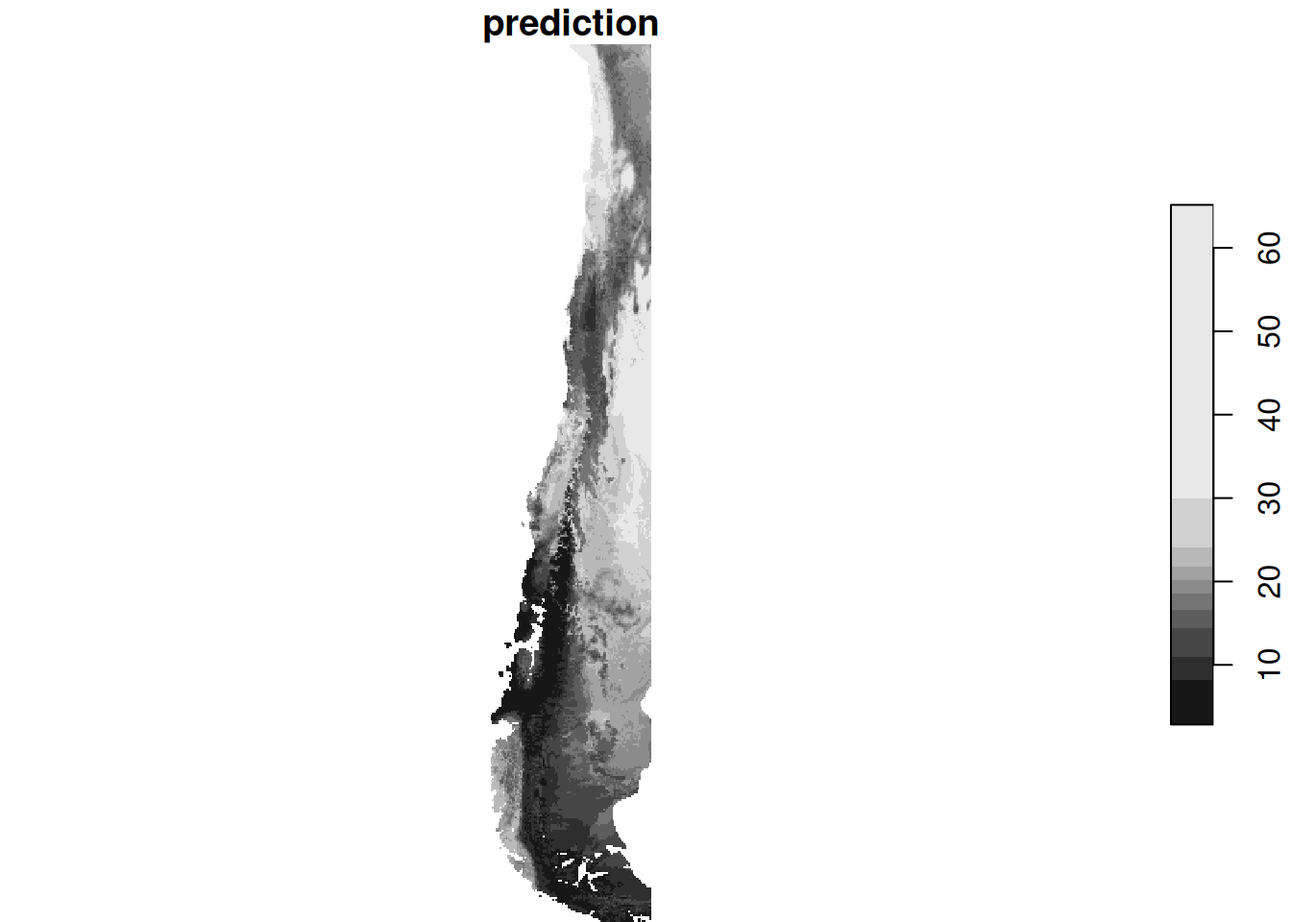
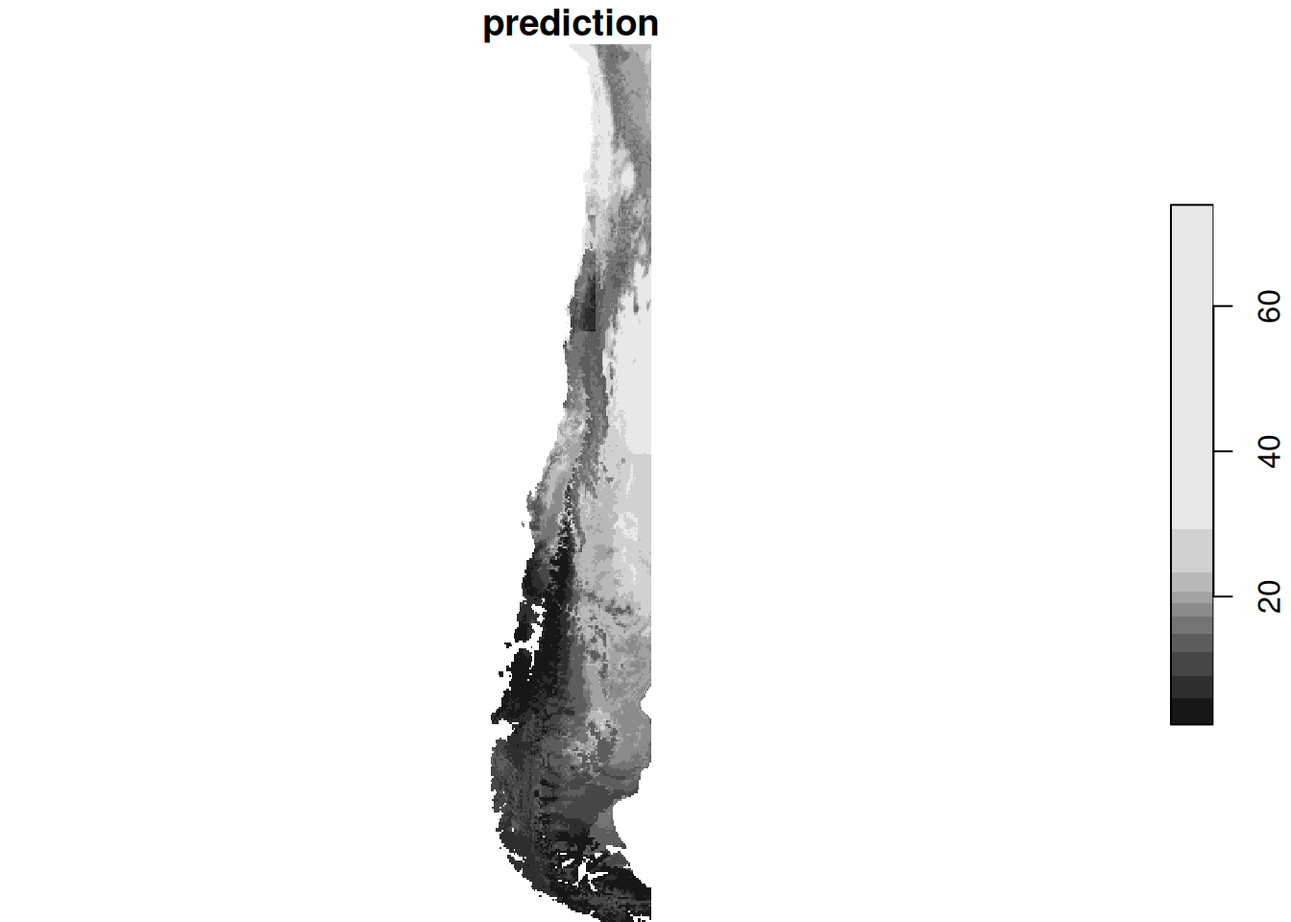
update

diff --git a/docs/day5.html b/docs/day5.html
@@ -1643,98 +1643,99 @@ I = \frac{n \sum_{(2)} w_{ij} z_i z_j}{S_0 \sum_{i=1}^{n} z_i^2}
 <span id="cb19-285"><a href="#cb19-285" aria-hidden="true" tabindex="-1"></a>download_items <span class="ot">&lt;-</span> it_obj <span class="sc">|&gt;</span></span>
 <span id="cb19-286"><a href="#cb19-286" aria-hidden="true" tabindex="-1"></a>  <span class="fu">assets_download</span>(<span class="at">assets_name =</span> <span class="st">"thumbnail"</span>, <span class="at">items_max =</span> <span class="dv">1</span>, <span class="at">overwrite =</span> <span class="cn">TRUE</span>)</span>
 <span id="cb19-287"><a href="#cb19-287" aria-hidden="true" tabindex="-1"></a><span class="in">```</span></span>
-<span id="cb19-288"><a href="#cb19-288" aria-hidden="true" tabindex="-1"></a></span>
-<span id="cb19-289"><a href="#cb19-289" aria-hidden="true" tabindex="-1"></a>and examine</span>
-<span id="cb19-290"><a href="#cb19-290" aria-hidden="true" tabindex="-1"></a></span>
-<span id="cb19-291"><a href="#cb19-291" aria-hidden="true" tabindex="-1"></a><span class="in">```{r eval=ev}</span></span>
-<span id="cb19-292"><a href="#cb19-292" aria-hidden="true" tabindex="-1"></a><span class="fu">library</span>(sf)</span>
-<span id="cb19-293"><a href="#cb19-293" aria-hidden="true" tabindex="-1"></a>tif <span class="ot">=</span> <span class="st">"sentinel-s2-l2a-cogs/23/K/MA/2022/3/S2A_23KMA_20220317_0_L2A/B04.tif"</span></span>
-<span id="cb19-294"><a href="#cb19-294" aria-hidden="true" tabindex="-1"></a><span class="fu">gdal_utils</span>(<span class="st">"info"</span>, tif)</span>
-<span id="cb19-295"><a href="#cb19-295" aria-hidden="true" tabindex="-1"></a><span class="fu">library</span>(stars)</span>
-<span id="cb19-296"><a href="#cb19-296" aria-hidden="true" tabindex="-1"></a><span class="fu">read_stars</span>(tif) <span class="sc">|&gt;</span> <span class="fu">plot</span>()</span>
-<span id="cb19-297"><a href="#cb19-297" aria-hidden="true" tabindex="-1"></a><span class="in">```</span></span>
-<span id="cb19-298"><a href="#cb19-298" aria-hidden="true" tabindex="-1"></a></span>
-<span id="cb19-299"><a href="#cb19-299" aria-hidden="true" tabindex="-1"></a>::: {.callout-note title="Breakout session 2"}</span>
-<span id="cb19-300"><a href="#cb19-300" aria-hidden="true" tabindex="-1"></a>Discuss:</span>
-<span id="cb19-301"><a href="#cb19-301" aria-hidden="true" tabindex="-1"></a></span>
-<span id="cb19-302"><a href="#cb19-302" aria-hidden="true" tabindex="-1"></a><span class="ss">-   </span>Have you used any cloud platforms for processing geospatial data?</span>
-<span id="cb19-303"><a href="#cb19-303" aria-hidden="true" tabindex="-1"></a><span class="ss">-   </span>What is your position with respect to platform lock-in?</span>
-<span id="cb19-304"><a href="#cb19-304" aria-hidden="true" tabindex="-1"></a>:::</span>
-<span id="cb19-305"><a href="#cb19-305" aria-hidden="true" tabindex="-1"></a></span>
-<span id="cb19-306"><a href="#cb19-306" aria-hidden="true" tabindex="-1"></a><span class="fu">## Further examples from r-spatial.org:</span></span>
-<span id="cb19-307"><a href="#cb19-307" aria-hidden="true" tabindex="-1"></a></span>
-<span id="cb19-308"><a href="#cb19-308" aria-hidden="true" tabindex="-1"></a><span class="ss">-   </span><span class="co">[</span><span class="ot">Cloud-based processing of satellite image collections in R using STAC, COGs, and on-demand data cubes</span><span class="co">](https://r-spatial.org/r/2021/04/23/cloud-based-cubes.html)</span></span>
-<span id="cb19-309"><a href="#cb19-309" aria-hidden="true" tabindex="-1"></a><span class="ss">-   </span><span class="co">[</span><span class="ot">Reading Zarr files with R package stars</span><span class="co">](https://r-spatial.org/r/2022/09/13/zarr.html)</span></span>
-<span id="cb19-310"><a href="#cb19-310" aria-hidden="true" tabindex="-1"></a><span class="ss">-   </span><span class="co">[</span><span class="ot">Processing large scale satellite imagery with openEO Platform and R</span><span class="co">](https://r-spatial.org/r/2022/11/24/openeo.html)</span></span>
-<span id="cb19-311"><a href="#cb19-311" aria-hidden="true" tabindex="-1"></a></span>
-<span id="cb19-312"><a href="#cb19-312" aria-hidden="true" tabindex="-1"></a><span class="fu">## Examples `/vsixxx`</span></span>
-<span id="cb19-313"><a href="#cb19-313" aria-hidden="true" tabindex="-1"></a></span>
-<span id="cb19-314"><a href="#cb19-314" aria-hidden="true" tabindex="-1"></a><span class="in">```{r eval=ev}</span></span>
-<span id="cb19-315"><a href="#cb19-315" aria-hidden="true" tabindex="-1"></a>curl<span class="sc">::</span><span class="fu">curl_download</span>(</span>
-<span id="cb19-316"><a href="#cb19-316" aria-hidden="true" tabindex="-1"></a>  <span class="st">"https://github.com/paleolimbot/geoarrow-data/releases/download/v0.0.1/nshn_water_line.gpkg"</span>,</span>
-<span id="cb19-317"><a href="#cb19-317" aria-hidden="true" tabindex="-1"></a>  <span class="st">"nshn_water_line.gpkg"</span></span>
-<span id="cb19-318"><a href="#cb19-318" aria-hidden="true" tabindex="-1"></a>)</span>
-<span id="cb19-319"><a href="#cb19-319" aria-hidden="true" tabindex="-1"></a><span class="in">```</span></span>
-<span id="cb19-320"><a href="#cb19-320" aria-hidden="true" tabindex="-1"></a></span>
-<span id="cb19-323"><a href="#cb19-323" aria-hidden="true" tabindex="-1"></a><span class="in">```{r}</span></span>
-<span id="cb19-324"><a href="#cb19-324" aria-hidden="true" tabindex="-1"></a><span class="fu">library</span>(sf)</span>
-<span id="cb19-325"><a href="#cb19-325" aria-hidden="true" tabindex="-1"></a><span class="in">```</span></span>
-<span id="cb19-326"><a href="#cb19-326" aria-hidden="true" tabindex="-1"></a></span>
-<span id="cb19-327"><a href="#cb19-327" aria-hidden="true" tabindex="-1"></a><span class="in">```{r eval=ev}</span></span>
-<span id="cb19-328"><a href="#cb19-328" aria-hidden="true" tabindex="-1"></a>(w <span class="ot">&lt;-</span> <span class="fu">read_sf</span>(<span class="st">"nshn_water_line.gpkg"</span>))</span>
-<span id="cb19-329"><a href="#cb19-329" aria-hidden="true" tabindex="-1"></a><span class="in">```</span></span>
-<span id="cb19-330"><a href="#cb19-330" aria-hidden="true" tabindex="-1"></a></span>
-<span id="cb19-331"><a href="#cb19-331" aria-hidden="true" tabindex="-1"></a>From https://github.com/microsoft/USBuildingFootprints downloaded <span class="co">[</span><span class="ot">Maine.geojson.zip</span><span class="co">](https://minedbuildings.z5.web.core.windows.net/legacy/usbuildings-v2/Maine.geojson.zip)</span>, and read with</span>
-<span id="cb19-332"><a href="#cb19-332" aria-hidden="true" tabindex="-1"></a></span>
-<span id="cb19-333"><a href="#cb19-333" aria-hidden="true" tabindex="-1"></a><span class="in">```{r eval=ev}</span></span>
-<span id="cb19-334"><a href="#cb19-334" aria-hidden="true" tabindex="-1"></a>(<span class="at">m =</span> <span class="fu">read_sf</span>(<span class="st">"/vsizip/Maine.geojson.zip"</span>)) <span class="co"># /vsizip: indicates data source is a zipped file</span></span>
-<span id="cb19-335"><a href="#cb19-335" aria-hidden="true" tabindex="-1"></a><span class="in">```</span></span>
-<span id="cb19-336"><a href="#cb19-336" aria-hidden="true" tabindex="-1"></a></span>
-<span id="cb19-337"><a href="#cb19-337" aria-hidden="true" tabindex="-1"></a>or read directly from github into R:</span>
-<span id="cb19-338"><a href="#cb19-338" aria-hidden="true" tabindex="-1"></a></span>
-<span id="cb19-339"><a href="#cb19-339" aria-hidden="true" tabindex="-1"></a><span class="in">```{r eval=FALSE}</span></span>
-<span id="cb19-340"><a href="#cb19-340" aria-hidden="true" tabindex="-1"></a>m <span class="ot">=</span> <span class="fu">st_read</span>(<span class="st">"/vsizip/vsicurl/https://minedbuildings.z5.web.core.windows.net/legacy/usbuildings-v2/Maine.geojson.zip"</span>)</span>
-<span id="cb19-341"><a href="#cb19-341" aria-hidden="true" tabindex="-1"></a><span class="co"># /vsicurl: indicates data source is a URL</span></span>
-<span id="cb19-342"><a href="#cb19-342" aria-hidden="true" tabindex="-1"></a><span class="in">```</span></span>
-<span id="cb19-343"><a href="#cb19-343" aria-hidden="true" tabindex="-1"></a></span>
-<span id="cb19-344"><a href="#cb19-344" aria-hidden="true" tabindex="-1"></a><span class="fu">## "Simple" analysis on large datasets</span></span>
-<span id="cb19-345"><a href="#cb19-345" aria-hidden="true" tabindex="-1"></a></span>
-<span id="cb19-346"><a href="#cb19-346" aria-hidden="true" tabindex="-1"></a><span class="ss">-   </span>process full archives, compute *in* the cloud</span>
-<span id="cb19-347"><a href="#cb19-347" aria-hidden="true" tabindex="-1"></a><span class="ss">-   </span>select subsets, download, process locally:</span>
-<span id="cb19-348"><a href="#cb19-348" aria-hidden="true" tabindex="-1"></a><span class="ss">    -   </span>spatial subset</span>
-<span id="cb19-349"><a href="#cb19-349" aria-hidden="true" tabindex="-1"></a><span class="ss">    -   </span>temporal subset</span>
-<span id="cb19-350"><a href="#cb19-350" aria-hidden="true" tabindex="-1"></a><span class="ss">    -   </span>sampled at lower resolution (spatially, temporally)</span>
-<span id="cb19-351"><a href="#cb19-351" aria-hidden="true" tabindex="-1"></a><span class="ss">    -   </span>aggregated (=processed?) to lower resolution</span>
-<span id="cb19-352"><a href="#cb19-352" aria-hidden="true" tabindex="-1"></a><span class="ss">-   </span>in some disciplines (Earth Observation?) there seems to be a belief that processing at the *full* resolution is the only thing that produces real science</span>
-<span id="cb19-353"><a href="#cb19-353" aria-hidden="true" tabindex="-1"></a><span class="ss">-   </span>there is surprisingly little literature on the loss of information when processing at lower resolution, e.g. when the goal is to create a curve of yearly deforestation over an area as large as Brazil</span>
-<span id="cb19-354"><a href="#cb19-354" aria-hidden="true" tabindex="-1"></a></span>
-<span id="cb19-355"><a href="#cb19-355" aria-hidden="true" tabindex="-1"></a><span class="fu">## Spatial statistics on large datasets</span></span>
-<span id="cb19-356"><a href="#cb19-356" aria-hidden="true" tabindex="-1"></a></span>
-<span id="cb19-357"><a href="#cb19-357" aria-hidden="true" tabindex="-1"></a><span class="fu">### Geostatistics</span></span>
-<span id="cb19-358"><a href="#cb19-358" aria-hidden="true" tabindex="-1"></a></span>
-<span id="cb19-359"><a href="#cb19-359" aria-hidden="true" tabindex="-1"></a><span class="ss">-   </span><span class="co">[</span><span class="ot">RandomForestsGLS</span><span class="co">](https://cran.r-project.org/web/packages/RandomForestsGLS/)</span></span>
-<span id="cb19-360"><a href="#cb19-360" aria-hidden="true" tabindex="-1"></a><span class="ss">-   </span><span class="co">[</span><span class="ot">spNNGP</span><span class="co">](https://cran.r-project.org/web/packages/spNNGP/index.html)</span></span>
-<span id="cb19-361"><a href="#cb19-361" aria-hidden="true" tabindex="-1"></a><span class="ss">-   </span><span class="co">[</span><span class="ot">FRK</span><span class="co">](https://cran.r-project.org/web/packages/FRK/index.html)</span></span>
-<span id="cb19-362"><a href="#cb19-362" aria-hidden="true" tabindex="-1"></a></span>
-<span id="cb19-363"><a href="#cb19-363" aria-hidden="true" tabindex="-1"></a>A key paper comparing different approaches is Heaton, Matthew J., Abhirup Datta, Andrew O. Finley, Reinhard Furrer, Joseph Guinness, Rajarshi Guhaniyogi, Florian Gerber, et al. 2018. “A Case Study Competition Among Methods for Analyzing Large Spatial Data.” Journal of Agricultural, Biological and Environmental Statistics, December. <span class="co">[</span><span class="ot">DOI</span><span class="co">](https://doi.org/10.1007/s13253-018-00348-w)</span>.</span>
-<span id="cb19-364"><a href="#cb19-364" aria-hidden="true" tabindex="-1"></a></span>
-<span id="cb19-365"><a href="#cb19-365" aria-hidden="true" tabindex="-1"></a><span class="fu">## Exercises:</span></span>
-<span id="cb19-366"><a href="#cb19-366" aria-hidden="true" tabindex="-1"></a></span>
-<span id="cb19-367"><a href="#cb19-367" aria-hidden="true" tabindex="-1"></a><span class="ss">1. </span>Discuss: Have you used datasets obtained from cloud storage? For which case(s)?</span>
-<span id="cb19-368"><a href="#cb19-368" aria-hidden="true" tabindex="-1"></a><span class="ss">2. </span>Discuss: Have you used cloud processing? For which case(s)</span>
-<span id="cb19-369"><a href="#cb19-369" aria-hidden="true" tabindex="-1"></a><span class="ss">3. </span>Run</span>
-<span id="cb19-370"><a href="#cb19-370" aria-hidden="true" tabindex="-1"></a></span>
-<span id="cb19-371"><a href="#cb19-371" aria-hidden="true" tabindex="-1"></a><span class="in">```r</span></span>
-<span id="cb19-372"><a href="#cb19-372" aria-hidden="true" tabindex="-1"></a>granule <span class="ot">=</span> <span class="fu">system.file</span>(<span class="st">"sentinel/S2A_MSIL1C_20180220T105051_N0206_R051_T32ULE_20180221T134037.zip"</span>, <span class="at">package =</span> <span class="st">"starsdata"</span>)</span>
-<span id="cb19-373"><a href="#cb19-373" aria-hidden="true" tabindex="-1"></a>s2 <span class="ot">=</span> <span class="fu">paste0</span>(<span class="st">"SENTINEL2_L1C:/vsizip/"</span>, granule, <span class="st">"/S2A_MSIL1C_20180220T105051_N0206_R051_T32ULE_20180221T134037.SAFE/MTD_MSIL1C.xml:10m:EPSG_32632"</span>)</span>
-<span id="cb19-374"><a href="#cb19-374" aria-hidden="true" tabindex="-1"></a><span class="in">```</span></span>
-<span id="cb19-375"><a href="#cb19-375" aria-hidden="true" tabindex="-1"></a></span>
-<span id="cb19-376"><a href="#cb19-376" aria-hidden="true" tabindex="-1"></a>and open <span class="in">`s2`</span> using <span class="in">`stars::read_stars()`</span>. Look at the summary; is the image data actually loaded in memory?</span>
-<span id="cb19-377"><a href="#cb19-377" aria-hidden="true" tabindex="-1"></a></span>
-<span id="cb19-378"><a href="#cb19-378" aria-hidden="true" tabindex="-1"></a><span class="ss">4. </span>Write the stars object to a GeoTIFF file, using <span class="in">`write_stars()`</span>. How long does it take, and how large is the resulting file?</span>
-<span id="cb19-379"><a href="#cb19-379" aria-hidden="true" tabindex="-1"></a><span class="ss">5. </span>Compute the difference between the first two bands of the Sentinel-2 image, and write the result to a GeoTiff file.</span>
-<span id="cb19-380"><a href="#cb19-380" aria-hidden="true" tabindex="-1"></a>   In which command(s) are the image values actually loaded into memory?</span>
-<span id="cb19-381"><a href="#cb19-381" aria-hidden="true" tabindex="-1"></a><span class="ss">6. </span>Only if time is left: try the <span class="co">[</span><span class="ot">Exercises of SDS chapter 9</span><span class="co">](https://r-spatial.org/book/09-Large.html#exercises)</span></span>
+<span id="cb19-288"><a href="#cb19-288" aria-hidden="true" tabindex="-1"></a>(this does not work; probably needs access to s3 from within a cloud environment)</span>
+<span id="cb19-289"><a href="#cb19-289" aria-hidden="true" tabindex="-1"></a></span>
+<span id="cb19-290"><a href="#cb19-290" aria-hidden="true" tabindex="-1"></a>and examine</span>
+<span id="cb19-291"><a href="#cb19-291" aria-hidden="true" tabindex="-1"></a></span>
+<span id="cb19-292"><a href="#cb19-292" aria-hidden="true" tabindex="-1"></a><span class="in">```{r eval=ev}</span></span>
+<span id="cb19-293"><a href="#cb19-293" aria-hidden="true" tabindex="-1"></a><span class="fu">library</span>(sf)</span>
+<span id="cb19-294"><a href="#cb19-294" aria-hidden="true" tabindex="-1"></a>tif <span class="ot">=</span> <span class="st">"sentinel-s2-l2a-cogs/23/K/MA/2022/3/S2A_23KMA_20220317_0_L2A/B04.tif"</span></span>
+<span id="cb19-295"><a href="#cb19-295" aria-hidden="true" tabindex="-1"></a><span class="fu">gdal_utils</span>(<span class="st">"info"</span>, tif)</span>
+<span id="cb19-296"><a href="#cb19-296" aria-hidden="true" tabindex="-1"></a><span class="fu">library</span>(stars)</span>
+<span id="cb19-297"><a href="#cb19-297" aria-hidden="true" tabindex="-1"></a><span class="fu">read_stars</span>(tif) <span class="sc">|&gt;</span> <span class="fu">plot</span>()</span>
+<span id="cb19-298"><a href="#cb19-298" aria-hidden="true" tabindex="-1"></a><span class="in">```</span></span>
+<span id="cb19-299"><a href="#cb19-299" aria-hidden="true" tabindex="-1"></a></span>
+<span id="cb19-300"><a href="#cb19-300" aria-hidden="true" tabindex="-1"></a>::: {.callout-note title="Breakout session 2"}</span>
+<span id="cb19-301"><a href="#cb19-301" aria-hidden="true" tabindex="-1"></a>Discuss:</span>
+<span id="cb19-302"><a href="#cb19-302" aria-hidden="true" tabindex="-1"></a></span>
+<span id="cb19-303"><a href="#cb19-303" aria-hidden="true" tabindex="-1"></a><span class="ss">-   </span>Have you used any cloud platforms for processing geospatial data?</span>
+<span id="cb19-304"><a href="#cb19-304" aria-hidden="true" tabindex="-1"></a><span class="ss">-   </span>What is your position with respect to platform lock-in?</span>
+<span id="cb19-305"><a href="#cb19-305" aria-hidden="true" tabindex="-1"></a>:::</span>
+<span id="cb19-306"><a href="#cb19-306" aria-hidden="true" tabindex="-1"></a></span>
+<span id="cb19-307"><a href="#cb19-307" aria-hidden="true" tabindex="-1"></a><span class="fu">## Further examples from r-spatial.org:</span></span>
+<span id="cb19-308"><a href="#cb19-308" aria-hidden="true" tabindex="-1"></a></span>
+<span id="cb19-309"><a href="#cb19-309" aria-hidden="true" tabindex="-1"></a><span class="ss">-   </span><span class="co">[</span><span class="ot">Cloud-based processing of satellite image collections in R using STAC, COGs, and on-demand data cubes</span><span class="co">](https://r-spatial.org/r/2021/04/23/cloud-based-cubes.html)</span></span>
+<span id="cb19-310"><a href="#cb19-310" aria-hidden="true" tabindex="-1"></a><span class="ss">-   </span><span class="co">[</span><span class="ot">Reading Zarr files with R package stars</span><span class="co">](https://r-spatial.org/r/2022/09/13/zarr.html)</span></span>
+<span id="cb19-311"><a href="#cb19-311" aria-hidden="true" tabindex="-1"></a><span class="ss">-   </span><span class="co">[</span><span class="ot">Processing large scale satellite imagery with openEO Platform and R</span><span class="co">](https://r-spatial.org/r/2022/11/24/openeo.html)</span></span>
+<span id="cb19-312"><a href="#cb19-312" aria-hidden="true" tabindex="-1"></a></span>
+<span id="cb19-313"><a href="#cb19-313" aria-hidden="true" tabindex="-1"></a><span class="fu">## Examples `/vsixxx`</span></span>
+<span id="cb19-314"><a href="#cb19-314" aria-hidden="true" tabindex="-1"></a></span>
+<span id="cb19-315"><a href="#cb19-315" aria-hidden="true" tabindex="-1"></a><span class="in">```{r eval=ev}</span></span>
+<span id="cb19-316"><a href="#cb19-316" aria-hidden="true" tabindex="-1"></a>curl<span class="sc">::</span><span class="fu">curl_download</span>(</span>
+<span id="cb19-317"><a href="#cb19-317" aria-hidden="true" tabindex="-1"></a>  <span class="st">"https://github.com/paleolimbot/geoarrow-data/releases/download/v0.0.1/nshn_water_line.gpkg"</span>,</span>
+<span id="cb19-318"><a href="#cb19-318" aria-hidden="true" tabindex="-1"></a>  <span class="st">"nshn_water_line.gpkg"</span></span>
+<span id="cb19-319"><a href="#cb19-319" aria-hidden="true" tabindex="-1"></a>)</span>
+<span id="cb19-320"><a href="#cb19-320" aria-hidden="true" tabindex="-1"></a><span class="in">```</span></span>
+<span id="cb19-321"><a href="#cb19-321" aria-hidden="true" tabindex="-1"></a></span>
+<span id="cb19-324"><a href="#cb19-324" aria-hidden="true" tabindex="-1"></a><span class="in">```{r}</span></span>
+<span id="cb19-325"><a href="#cb19-325" aria-hidden="true" tabindex="-1"></a><span class="fu">library</span>(sf)</span>
+<span id="cb19-326"><a href="#cb19-326" aria-hidden="true" tabindex="-1"></a><span class="in">```</span></span>
+<span id="cb19-327"><a href="#cb19-327" aria-hidden="true" tabindex="-1"></a></span>
+<span id="cb19-328"><a href="#cb19-328" aria-hidden="true" tabindex="-1"></a><span class="in">```{r eval=ev}</span></span>
+<span id="cb19-329"><a href="#cb19-329" aria-hidden="true" tabindex="-1"></a>(w <span class="ot">&lt;-</span> <span class="fu">read_sf</span>(<span class="st">"nshn_water_line.gpkg"</span>))</span>
+<span id="cb19-330"><a href="#cb19-330" aria-hidden="true" tabindex="-1"></a><span class="in">```</span></span>
+<span id="cb19-331"><a href="#cb19-331" aria-hidden="true" tabindex="-1"></a></span>
+<span id="cb19-332"><a href="#cb19-332" aria-hidden="true" tabindex="-1"></a>From https://github.com/microsoft/USBuildingFootprints downloaded <span class="co">[</span><span class="ot">Maine.geojson.zip</span><span class="co">](https://minedbuildings.z5.web.core.windows.net/legacy/usbuildings-v2/Maine.geojson.zip)</span>, and read with</span>
+<span id="cb19-333"><a href="#cb19-333" aria-hidden="true" tabindex="-1"></a></span>
+<span id="cb19-334"><a href="#cb19-334" aria-hidden="true" tabindex="-1"></a><span class="in">```{r eval=ev}</span></span>
+<span id="cb19-335"><a href="#cb19-335" aria-hidden="true" tabindex="-1"></a>(<span class="at">m =</span> <span class="fu">read_sf</span>(<span class="st">"/vsizip/Maine.geojson.zip"</span>)) <span class="co"># /vsizip: indicates data source is a zipped file</span></span>
+<span id="cb19-336"><a href="#cb19-336" aria-hidden="true" tabindex="-1"></a><span class="in">```</span></span>
+<span id="cb19-337"><a href="#cb19-337" aria-hidden="true" tabindex="-1"></a></span>
+<span id="cb19-338"><a href="#cb19-338" aria-hidden="true" tabindex="-1"></a>or read directly from github into R:</span>
+<span id="cb19-339"><a href="#cb19-339" aria-hidden="true" tabindex="-1"></a></span>
+<span id="cb19-340"><a href="#cb19-340" aria-hidden="true" tabindex="-1"></a><span class="in">```{r eval=FALSE}</span></span>
+<span id="cb19-341"><a href="#cb19-341" aria-hidden="true" tabindex="-1"></a>m <span class="ot">=</span> <span class="fu">st_read</span>(<span class="st">"/vsizip/vsicurl/https://minedbuildings.z5.web.core.windows.net/legacy/usbuildings-v2/Maine.geojson.zip"</span>)</span>
+<span id="cb19-342"><a href="#cb19-342" aria-hidden="true" tabindex="-1"></a><span class="co"># /vsicurl: indicates data source is a URL</span></span>
+<span id="cb19-343"><a href="#cb19-343" aria-hidden="true" tabindex="-1"></a><span class="in">```</span></span>
+<span id="cb19-344"><a href="#cb19-344" aria-hidden="true" tabindex="-1"></a></span>
+<span id="cb19-345"><a href="#cb19-345" aria-hidden="true" tabindex="-1"></a><span class="fu">## "Simple" analysis on large datasets</span></span>
+<span id="cb19-346"><a href="#cb19-346" aria-hidden="true" tabindex="-1"></a></span>
+<span id="cb19-347"><a href="#cb19-347" aria-hidden="true" tabindex="-1"></a><span class="ss">-   </span>process full archives, compute *in* the cloud</span>
+<span id="cb19-348"><a href="#cb19-348" aria-hidden="true" tabindex="-1"></a><span class="ss">-   </span>select subsets, download, process locally:</span>
+<span id="cb19-349"><a href="#cb19-349" aria-hidden="true" tabindex="-1"></a><span class="ss">    -   </span>spatial subset</span>
+<span id="cb19-350"><a href="#cb19-350" aria-hidden="true" tabindex="-1"></a><span class="ss">    -   </span>temporal subset</span>
+<span id="cb19-351"><a href="#cb19-351" aria-hidden="true" tabindex="-1"></a><span class="ss">    -   </span>sampled at lower resolution (spatially, temporally)</span>
+<span id="cb19-352"><a href="#cb19-352" aria-hidden="true" tabindex="-1"></a><span class="ss">    -   </span>aggregated (=processed?) to lower resolution</span>
+<span id="cb19-353"><a href="#cb19-353" aria-hidden="true" tabindex="-1"></a><span class="ss">-   </span>in some disciplines (Earth Observation?) there seems to be a belief that processing at the *full* resolution is the only thing that produces real science</span>
+<span id="cb19-354"><a href="#cb19-354" aria-hidden="true" tabindex="-1"></a><span class="ss">-   </span>there is surprisingly little literature on the loss of information when processing at lower resolution, e.g. when the goal is to create a curve of yearly deforestation over an area as large as Brazil</span>
+<span id="cb19-355"><a href="#cb19-355" aria-hidden="true" tabindex="-1"></a></span>
+<span id="cb19-356"><a href="#cb19-356" aria-hidden="true" tabindex="-1"></a><span class="fu">## Spatial statistics on large datasets</span></span>
+<span id="cb19-357"><a href="#cb19-357" aria-hidden="true" tabindex="-1"></a></span>
+<span id="cb19-358"><a href="#cb19-358" aria-hidden="true" tabindex="-1"></a><span class="fu">### Geostatistics</span></span>
+<span id="cb19-359"><a href="#cb19-359" aria-hidden="true" tabindex="-1"></a></span>
+<span id="cb19-360"><a href="#cb19-360" aria-hidden="true" tabindex="-1"></a><span class="ss">-   </span><span class="co">[</span><span class="ot">RandomForestsGLS</span><span class="co">](https://cran.r-project.org/web/packages/RandomForestsGLS/)</span></span>
+<span id="cb19-361"><a href="#cb19-361" aria-hidden="true" tabindex="-1"></a><span class="ss">-   </span><span class="co">[</span><span class="ot">spNNGP</span><span class="co">](https://cran.r-project.org/web/packages/spNNGP/index.html)</span></span>
+<span id="cb19-362"><a href="#cb19-362" aria-hidden="true" tabindex="-1"></a><span class="ss">-   </span><span class="co">[</span><span class="ot">FRK</span><span class="co">](https://cran.r-project.org/web/packages/FRK/index.html)</span></span>
+<span id="cb19-363"><a href="#cb19-363" aria-hidden="true" tabindex="-1"></a></span>
+<span id="cb19-364"><a href="#cb19-364" aria-hidden="true" tabindex="-1"></a>A key paper comparing different approaches is Heaton, Matthew J., Abhirup Datta, Andrew O. Finley, Reinhard Furrer, Joseph Guinness, Rajarshi Guhaniyogi, Florian Gerber, et al. 2018. “A Case Study Competition Among Methods for Analyzing Large Spatial Data.” Journal of Agricultural, Biological and Environmental Statistics, December. <span class="co">[</span><span class="ot">DOI</span><span class="co">](https://doi.org/10.1007/s13253-018-00348-w)</span>.</span>
+<span id="cb19-365"><a href="#cb19-365" aria-hidden="true" tabindex="-1"></a></span>
+<span id="cb19-366"><a href="#cb19-366" aria-hidden="true" tabindex="-1"></a><span class="fu">## Exercises:</span></span>
+<span id="cb19-367"><a href="#cb19-367" aria-hidden="true" tabindex="-1"></a></span>
+<span id="cb19-368"><a href="#cb19-368" aria-hidden="true" tabindex="-1"></a><span class="ss">1. </span>Discuss: Have you used datasets obtained from cloud storage? For which case(s)?</span>
+<span id="cb19-369"><a href="#cb19-369" aria-hidden="true" tabindex="-1"></a><span class="ss">2. </span>Discuss: Have you used cloud processing? For which case(s)</span>
+<span id="cb19-370"><a href="#cb19-370" aria-hidden="true" tabindex="-1"></a><span class="ss">3. </span>Run</span>
+<span id="cb19-371"><a href="#cb19-371" aria-hidden="true" tabindex="-1"></a></span>
+<span id="cb19-372"><a href="#cb19-372" aria-hidden="true" tabindex="-1"></a><span class="in">```r</span></span>
+<span id="cb19-373"><a href="#cb19-373" aria-hidden="true" tabindex="-1"></a>granule <span class="ot">=</span> <span class="fu">system.file</span>(<span class="st">"sentinel/S2A_MSIL1C_20180220T105051_N0206_R051_T32ULE_20180221T134037.zip"</span>, <span class="at">package =</span> <span class="st">"starsdata"</span>)</span>
+<span id="cb19-374"><a href="#cb19-374" aria-hidden="true" tabindex="-1"></a>s2 <span class="ot">=</span> <span class="fu">paste0</span>(<span class="st">"SENTINEL2_L1C:/vsizip/"</span>, granule, <span class="st">"/S2A_MSIL1C_20180220T105051_N0206_R051_T32ULE_20180221T134037.SAFE/MTD_MSIL1C.xml:10m:EPSG_32632"</span>)</span>
+<span id="cb19-375"><a href="#cb19-375" aria-hidden="true" tabindex="-1"></a><span class="in">```</span></span>
+<span id="cb19-376"><a href="#cb19-376" aria-hidden="true" tabindex="-1"></a></span>
+<span id="cb19-377"><a href="#cb19-377" aria-hidden="true" tabindex="-1"></a>and open <span class="in">`s2`</span> using <span class="in">`stars::read_stars()`</span>. Look at the summary; is the image data actually loaded in memory?</span>
+<span id="cb19-378"><a href="#cb19-378" aria-hidden="true" tabindex="-1"></a></span>
+<span id="cb19-379"><a href="#cb19-379" aria-hidden="true" tabindex="-1"></a><span class="ss">4. </span>Write the stars object to a GeoTIFF file, using <span class="in">`write_stars()`</span>. How long does it take, and how large is the resulting file?</span>
+<span id="cb19-380"><a href="#cb19-380" aria-hidden="true" tabindex="-1"></a><span class="ss">5. </span>Compute the difference between the first two bands of the Sentinel-2 image, and write the result to a GeoTiff file.</span>
+<span id="cb19-381"><a href="#cb19-381" aria-hidden="true" tabindex="-1"></a>   In which command(s) are the image values actually loaded into memory?</span>
+<span id="cb19-382"><a href="#cb19-382" aria-hidden="true" tabindex="-1"></a><span class="ss">6. </span>Only if time is left: try the <span class="co">[</span><span class="ot">Exercises of SDS chapter 9</span><span class="co">](https://r-spatial.org/book/09-Large.html#exercises)</span></span>
 </code></pre></div><button title="Copy to Clipboard" class="code-copy-button" data-in-quarto-modal=""><i class="bi"></i></button></div>
 </div></div></div></div></div>
 </div> <!-- /content -->

diff --git a/docs/index.html b/docs/index.html
@@ -5,7 +5,7 @@
 <meta name="generator" content="quarto-1.8.25">
 <meta name="viewport" content="width=device-width, initial-scale=1.0, user-scalable=yes">
 <meta name="author" content="Edzer Pebesma">
-<meta name="dcterms.date" content="2025-11-20">
+<meta name="dcterms.date" content="2025-11-21">
 <title>Spatial Statistics with R</title>
 <style>
 code{white-space: pre-wrap;}
@@ -231,7 +231,7 @@ pre > code.sourceCode > span > a:first-child::before { text-decoration: underlin
     <div>
     <div class="quarto-title-meta-heading">Published</div>
     <div class="quarto-title-meta-contents">
-      <p class="date">November 20, 2025</p>
+      <p class="date">November 21, 2025</p>
     </div>
   </div>
   
@@ -282,7 +282,7 @@ pre > code.sourceCode > span > a:first-child::before { text-decoration: underlin
 <div class="code-copy-outer-scaffold"><div class="sourceCode" id="cb2"><pre class="downlit sourceCode r code-with-copy"><code class="sourceCode R"><span><span class="fu"><a href="https://rdrr.io/r/utils/install.packages.html">install.packages</a></span><span class="op">(</span><span class="st">"spDataLarge"</span>, repos <span class="op">=</span> <span class="st">"https://nowosad.github.io/drat/"</span>, </span>
 <span>                 type <span class="op">=</span> <span class="st">"source"</span><span class="op">)</span> <span class="co"># 23 Mb</span></span>
 <span><span class="fu"><a href="https://rdrr.io/r/base/options.html">options</a></span><span class="op">(</span>timeout <span class="op">=</span> <span class="fl">3600</span><span class="op">)</span> <span class="co"># 1 hr instead of 1 min</span></span>
-<span><span class="fu"><a href="https://rdrr.io/r/utils/install.packages.html">install.packages</a></span><span class="op">(</span><span class="st">"starsdata"</span>, repos <span class="op">=</span> <span class="st">"http://cran.uni-muenster.de/pebesma/"</span>, </span>
+<span><span class="fu"><a href="https://rdrr.io/r/utils/install.packages.html">install.packages</a></span><span class="op">(</span><span class="st">"starsdata"</span>, repos <span class="op">=</span> <span class="st">"https://cran.uni-muenster.de/pebesma/"</span>, </span>
 <span>                 type <span class="op">=</span> <span class="st">"source"</span><span class="op">)</span> <span class="co"># 1 Gb</span></span>
 <span><span class="fu"><a href="https://rdrr.io/r/utils/install.packages.html">install.packages</a></span><span class="op">(</span><span class="st">"rnaturalearthhires"</span>,</span>
 <span>  repos <span class="op">=</span> <span class="st">"https://ropensci.r-universe.dev"</span>,</span>
@@ -878,7 +878,7 @@ pre > code.sourceCode > span > a:first-child::before { text-decoration: underlin
 <span id="cb3-49"><a href="#cb3-49" aria-hidden="true" tabindex="-1"></a><span class="fu">install.packages</span>(<span class="st">"spDataLarge"</span>, <span class="at">repos =</span> <span class="st">"https://nowosad.github.io/drat/"</span>, </span>
 <span id="cb3-50"><a href="#cb3-50" aria-hidden="true" tabindex="-1"></a>                 <span class="at">type =</span> <span class="st">"source"</span>) <span class="co"># 23 Mb</span></span>
 <span id="cb3-51"><a href="#cb3-51" aria-hidden="true" tabindex="-1"></a><span class="fu">options</span>(<span class="at">timeout =</span> <span class="dv">3600</span>) <span class="co"># 1 hr instead of 1 min</span></span>
-<span id="cb3-52"><a href="#cb3-52" aria-hidden="true" tabindex="-1"></a><span class="fu">install.packages</span>(<span class="st">"starsdata"</span>, <span class="at">repos =</span> <span class="st">"http://cran.uni-muenster.de/pebesma/"</span>, </span>
+<span id="cb3-52"><a href="#cb3-52" aria-hidden="true" tabindex="-1"></a><span class="fu">install.packages</span>(<span class="st">"starsdata"</span>, <span class="at">repos =</span> <span class="st">"https://cran.uni-muenster.de/pebesma/"</span>, </span>
 <span id="cb3-53"><a href="#cb3-53" aria-hidden="true" tabindex="-1"></a>                 <span class="at">type =</span> <span class="st">"source"</span>) <span class="co"># 1 Gb</span></span>
 <span id="cb3-54"><a href="#cb3-54" aria-hidden="true" tabindex="-1"></a><span class="fu">install.packages</span>(<span class="st">"rnaturalearthhires"</span>,</span>
 <span id="cb3-55"><a href="#cb3-55" aria-hidden="true" tabindex="-1"></a>  <span class="at">repos =</span> <span class="st">"https://ropensci.r-universe.dev"</span>,</span>

diff --git a/docs/day4.html b/docs/day4.html
@@ -722,7 +722,8 @@ window.Quarto = {
 <span><span class="co"># [205] "d_188"      "d_189"      "d_190"      "d_191"     </span></span>
 <span><span class="co"># [209] "d_192"      "d_193"      "d_194"      "d_195"     </span></span>
 <span><span class="co"># [213] "d_196"      "d_197"      "d_198"      "d_199"     </span></span>
-<span><span class="co"># [217] "d_200"      "d_201"</span></span>
+<span><span class="co"># [217] "d_200"      "d_201"      "d_202"      "d_203"     </span></span>
+<span><span class="co"># [221] "d_204"      "d_205"      "d_206"</span></span>
 <span><span class="va">rf</span> <span class="op">=</span> <span class="fu"><a href="https://rdrr.io/pkg/randomForest/man/randomForest.html">randomForest</a></span><span class="op">(</span><span class="va">NO2</span><span class="op">~</span><span class="va">.</span>, <span class="fu"><a href="https://rdrr.io/r/base/as.data.frame.html">as.data.frame</a></span><span class="op">(</span><span class="va">no2.sf</span><span class="op">)</span><span class="op">[</span><span class="fu"><a href="https://rdrr.io/r/base/c.html">c</a></span><span class="op">(</span><span class="st">"NO2"</span>, <span class="va">n</span><span class="op">[</span><span class="fu"><a href="https://rdrr.io/r/base/grep.html">grepl</a></span><span class="op">(</span><span class="st">"d_"</span>, <span class="va">n</span><span class="op">)</span><span class="op">]</span><span class="op">)</span><span class="op">]</span><span class="op">)</span></span>
 <span><span class="va">g4</span><span class="op">$</span><span class="va">rf_dm</span> <span class="op">=</span> <span class="fu"><a href="https://rdrr.io/r/stats/predict.html">predict</a></span><span class="op">(</span><span class="va">rf</span>, <span class="fu"><a href="https://rdrr.io/r/base/as.data.frame.html">as.data.frame</a></span><span class="op">(</span><span class="va">g4</span><span class="op">)</span><span class="op">)</span></span>
 <span><span class="fu"><a href="https://rdrr.io/r/graphics/plot.default.html">plot</a></span><span class="op">(</span><span class="va">g4</span><span class="op">[</span><span class="st">"rf_dm"</span><span class="op">]</span>, breaks <span class="op">=</span> <span class="st">"equal"</span>, reset <span class="op">=</span> <span class="cn">FALSE</span>, main <span class="op">=</span> <span class="st">"random forest"</span><span class="op">)</span></span>
